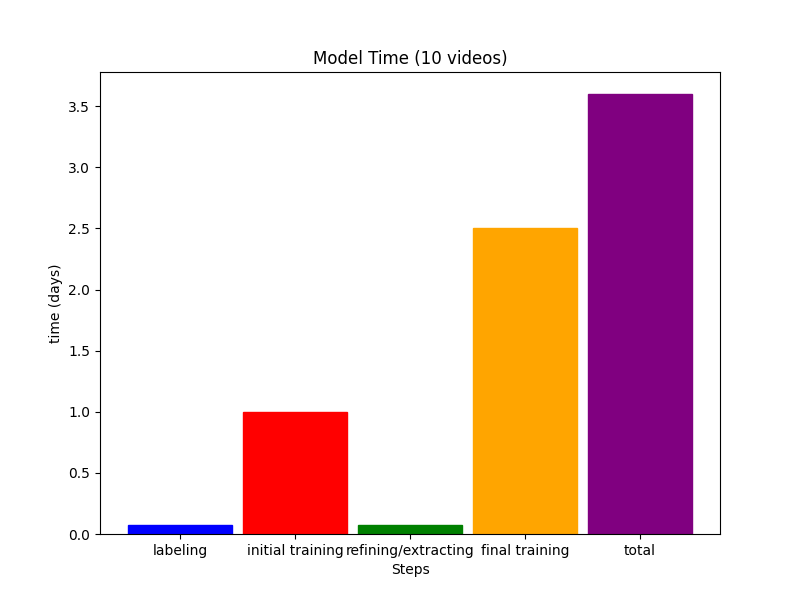
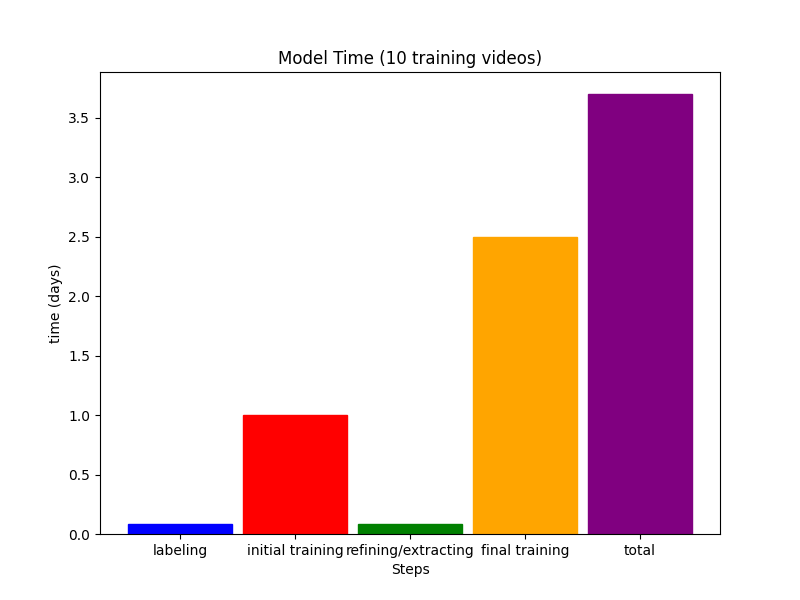
DLC udpate

diff --git a/DeepLabCut/DLC_jump_analysis/all_trackers/time_performance.py b/DeepLabCut/DLC_jump_analysis/all_trackers/time_performance.py
@@ -7,15 +7,17 @@ import os
 def time_per(fname1, fname2):
     w = .9
     x = [1, 2, 3, 4, 5]
-    one_animal_model = np.array([.07, 1, .07, 2.5, 3.6]) #time of steps for single model construction
+    #one_animal_model = np.array([.07, 1, .07, 2.5, 3.6]) #time of steps for single model construction (10 vids)
+    #combined_animal_model = np.array([.11, 1, .11, 2.5, 3.72]) #16 vids for combined model
+    one_animal_model = np.array([.08, 1, .08, 2.5, 3.7]) #12 vids for single model 
     colors = ['blue', 'red', 'green', 'orange', 'purple']
-    #labeling: 10 min/vid --> 100 min (10 vids) --> 1.7 hrs --> .07 days
+    #labeling: 10 min/vid --> 120 min (12 vids) --> 2 hrs --> .08 days
     #initial training: 1440 min = 24 hrs training --> 1 day
-    #refine/extract outlier frames: 10 min/vid --> 100 min (10 vids) --> 1.7 hrs --> .07 days
+    #refine/extract outlier frames: 10 min/vid --> 120 min (12 vids) --> 2 hrs --> .08 days
     #final training: 3600 --> 60 hrs -->  2.5 days
-    #total time: 87.4 hrs --> 3.6 days
+    #total time: 3.7 days
 
-    #(3.6 days x 24 hrs/day) / (6 hrs/day) = 14 days
+    #(3.7 days x 24 hrs/day) / (6 hrs/day) = 14 days
 
     #First graph: Steps and time involved in constructing a single model 
     plt.bar(x, 
@@ -26,7 +28,7 @@ def time_per(fname1, fname2):
            edgecolor=colors,
            )
 
-    plt.title("Model Time (10 videos)")
+    plt.title("Model Time (10 training videos)")
     plt.xlabel("Steps")
     plt.ylabel("time (days)")
 
@@ -43,9 +45,10 @@ def time_per(fname1, fname2):
     total_time_one_animal = one_animal_model[4]
     two_animal_models = np.multiply(total_time_one_animal, 2)
     three_animal_models = np.multiply(total_time_one_animal, 3)
+    three_animal_models_rounded = np.round(three_animal_models)
     four_animal_models = np.multiply(total_time_one_animal, 4)
     five_animal_models = np.multiply(total_time_one_animal, 5)
-    y = total_time_one_animal, two_animal_models, three_animal_models, four_animal_models, five_animal_models
+    y = total_time_one_animal, two_animal_models, three_animal_models_rounded, four_animal_models, five_animal_models
 
     plt.plot(x, y, marker='o')
     plt.xticks(np.arange(min(x), max(x)+1, 1.0), ['1/combined', '2', '3', '4', '5'])
@@ -54,7 +57,7 @@ def time_per(fname1, fname2):
        plt.text(i+.1, j-.2, '({})'.format(j))
 
 
-    plt.title("Model Time (10 videos)")
+    plt.title("Model Time (10 training videos)")
     plt.xlabel("# of animals/models")
     plt.ylabel("time (days)")
     figure = plt.gcf()
